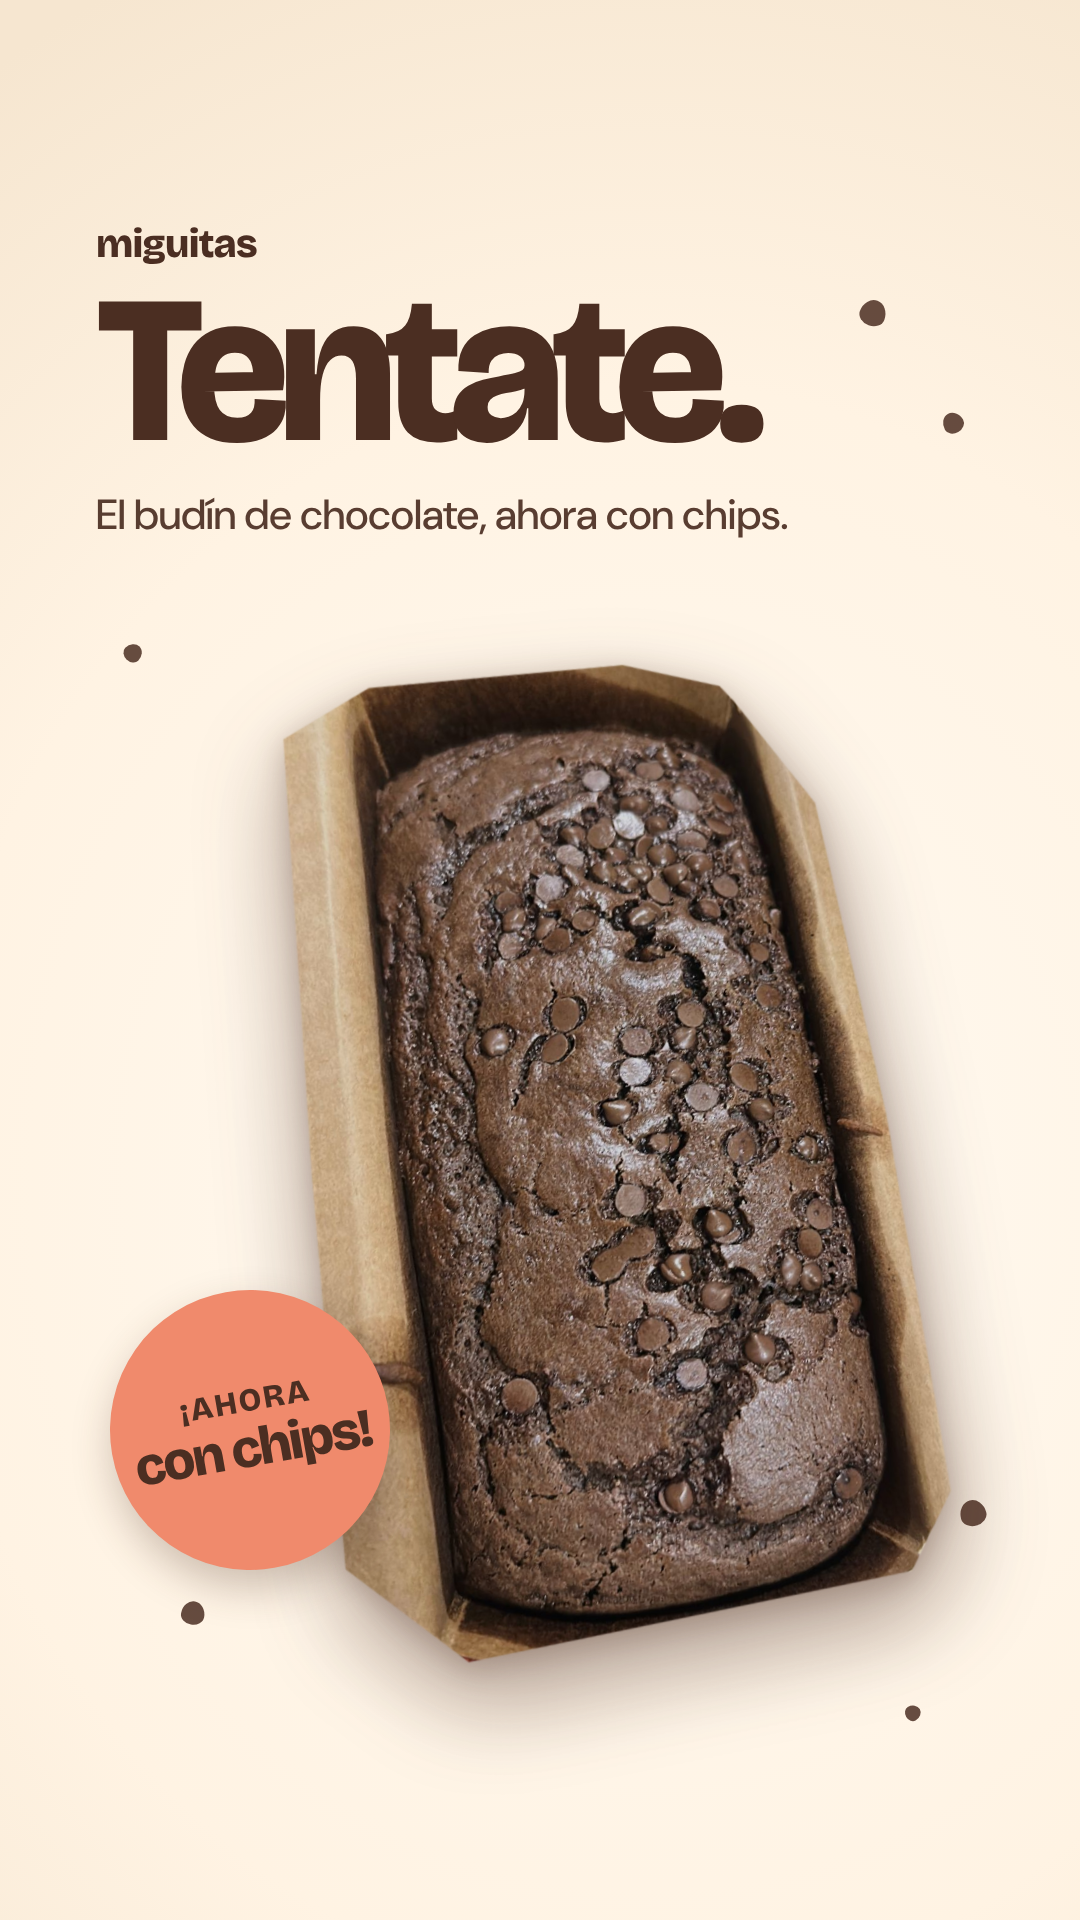
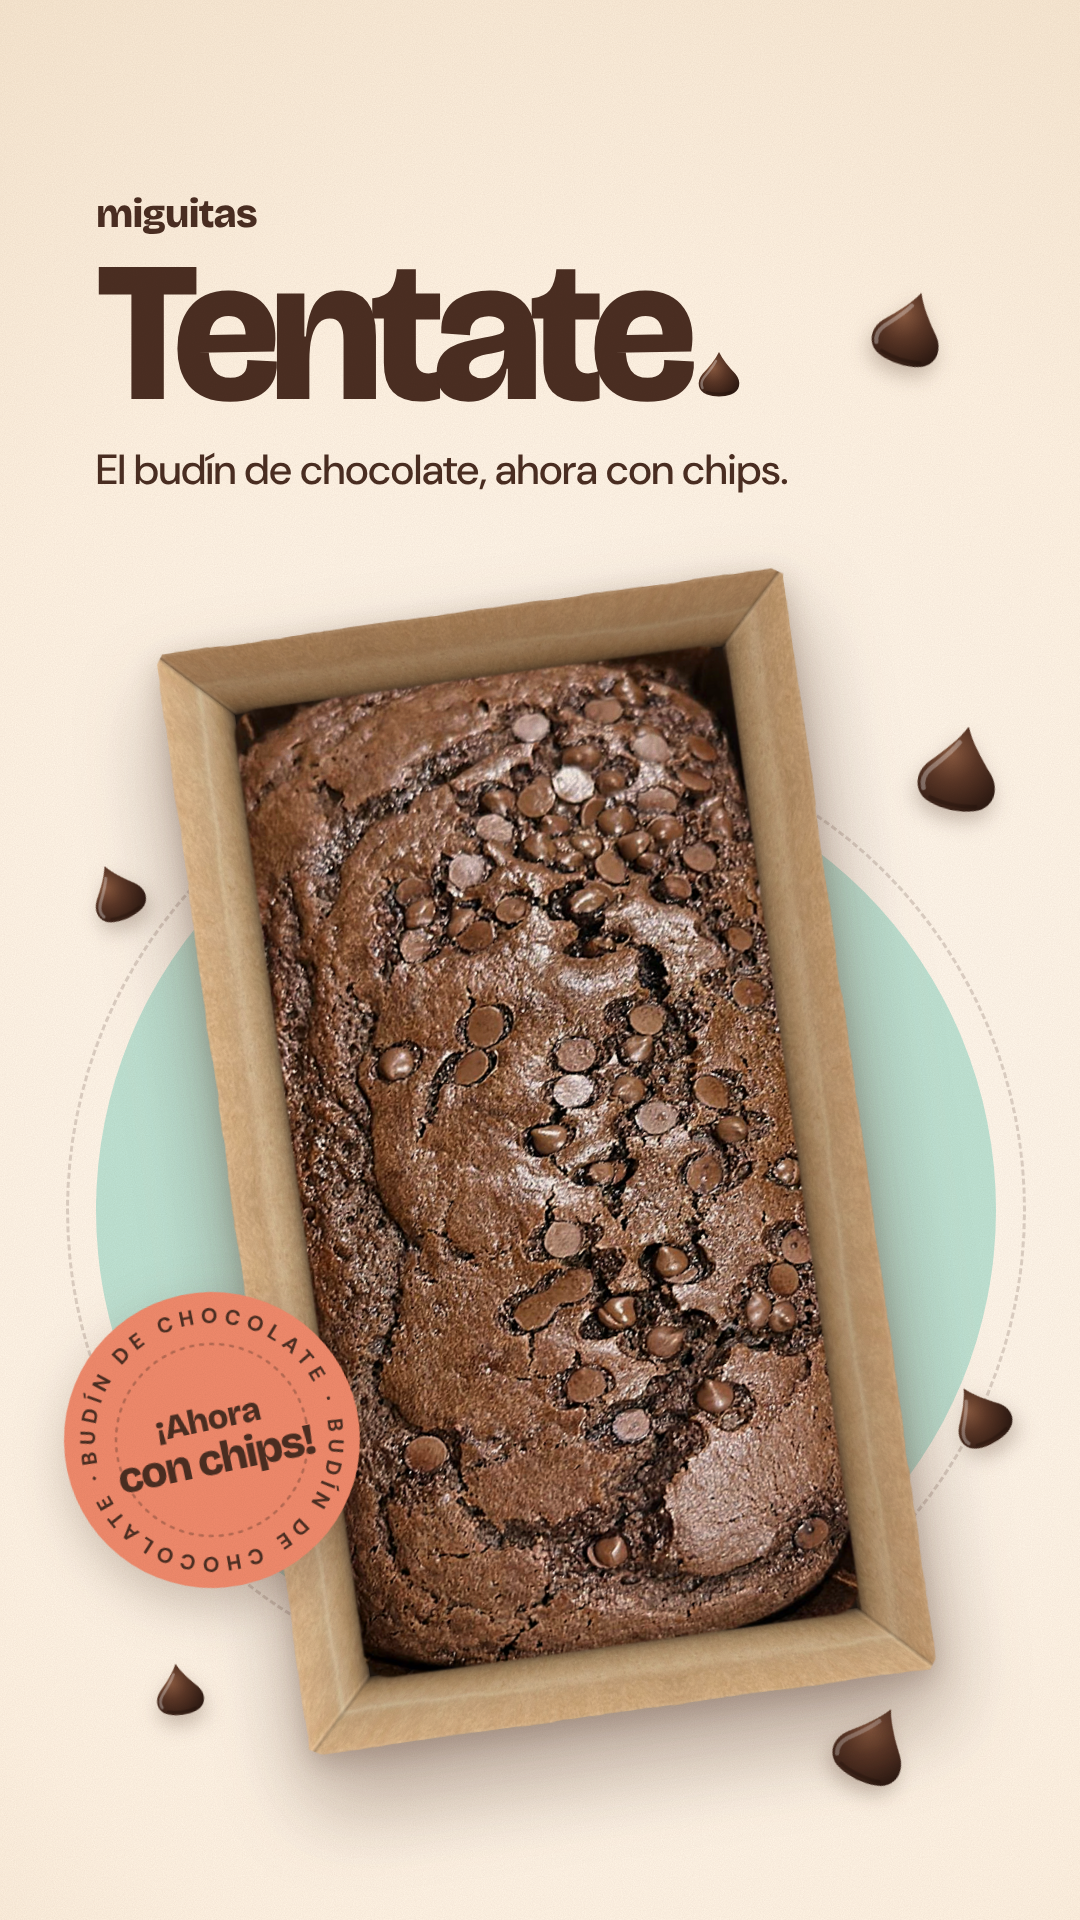
Historia Tentate: molde parejo, budín más grande, disco menta, chips y sello circular
Claude-Session: https://claude.ai/code/session_01AV7UuVhKxUTNvFiCSwisCu

diff --git a/historias/tentate-chocolate.html b/historias/tentate-chocolate.html
@@ -2,37 +2,67 @@
 <html lang="es"><head><meta charset="utf-8">
 <link rel="stylesheet" href="https://fonts.googleapis.com/css2?family=Bricolage+Grotesque:opsz,wght@12..96,700;12..96,800&family=DM+Sans:opsz,wght@9..40,500;9..40,600;9..40,700&display=swap">
 <style>
-:root{--crema:#fff8ee;--cacao:#4b2e22;--coral:#f08a6c;--display:"Bricolage Grotesque","DM Sans",sans-serif;--texto:"DM Sans",sans-serif}
+:root{--crema:#fff8ee;--cacao:#4b2e22;--coral:#f08a6c;--menta:#bfe3d4;--display:"Bricolage Grotesque","DM Sans",sans-serif;--texto:"DM Sans",sans-serif}
 *{margin:0;padding:0;box-sizing:border-box}
 html,body{width:1080px;height:1920px;font-family:var(--texto)}
 .h{position:relative;width:1080px;height:1920px;overflow:hidden;color:var(--cacao);
-  background:radial-gradient(110% 70% at 60% 62%,#fffaf2 0%,#fff3e3 60%,#f6e6d0 100%)}
-.chip{position:absolute;width:26px;height:26px;background:#4b2e22;border-radius:50% 50% 50% 50%/60% 60% 40% 40%;opacity:.85}
-.top{position:absolute;top:220px;left:96px;right:96px}
+  background:radial-gradient(120% 75% at 55% 60%,#fffaf3 0%,#fff3e3 60%,#f5e4cc 100%)}
+.grano{position:absolute;inset:0;opacity:.11;mix-blend-mode:multiply;pointer-events:none}
+.disco{position:absolute;left:96px;top:760px;width:900px;height:900px;border-radius:50%;background:var(--menta)}
+.anillo{position:absolute;left:66px;top:730px;width:960px;height:960px;border-radius:50%;border:3px dashed rgba(75,46,34,.18)}
+.top{position:absolute;top:190px;left:96px;right:96px}
 .marca{font-family:var(--display);font-weight:800;font-size:40px;letter-spacing:-.02em}
-h1{margin-top:14px;font-family:var(--display);font-weight:800;font-size:210px;letter-spacing:-.055em;line-height:.85}
-.card{position:absolute;left:290px;top:640px;width:640px;transform:rotate(-6deg);filter:drop-shadow(0 40px 46px rgba(75,46,34,.38)) drop-shadow(0 8px 14px rgba(75,46,34,.3))}
-.card img{display:block;width:100%}
-.sello{position:absolute;left:110px;top:1290px;transform:rotate(-10deg);width:280px;height:280px;border-radius:50%;
-  background:var(--coral);color:var(--cacao);display:flex;flex-direction:column;align-items:center;justify-content:center;text-align:center;
-  font-family:var(--display);font-weight:800;line-height:.95;box-shadow:0 18px 40px rgba(75,46,34,.28)}
-.sello b{font-size:32px;letter-spacing:.06em;margin-bottom:6px}
-.sello span{font-size:54px;letter-spacing:-.04em}
-.sub{margin-top:26px;font-size:42px;font-weight:500;opacity:.92}
+h1{margin-top:10px;font-family:var(--display);font-weight:800;font-size:200px;letter-spacing:-.055em;line-height:.85;white-space:nowrap}
+h1 svg{display:inline-block;width:.25em;height:.25em;margin-left:.04em;vertical-align:baseline}
+.sub{margin-top:24px;font-size:42px;font-weight:500}
+.budin{position:absolute;left:228px;top:604px;width:636px;transform:rotate(-8deg);
+  filter:drop-shadow(0 46px 44px rgba(75,46,34,.34)) drop-shadow(0 10px 14px rgba(75,46,34,.28))}
+.budin img{display:block;width:100%}
+.chip{position:absolute;filter:drop-shadow(0 10px 10px rgba(75,46,34,.28))}
+.sello{position:absolute;left:62px;top:1290px;width:300px;height:300px;transform:rotate(-12deg);
+  filter:drop-shadow(0 18px 26px rgba(75,46,34,.28))}
 </style></head><body>
+<svg width="0" height="0" style="position:absolute">
+  <defs>
+    <radialGradient id="gc" cx="35%" cy="35%" r="75%">
+      <stop offset="0" stop-color="#8a5a40"/><stop offset=".45" stop-color="#5a3626"/><stop offset="1" stop-color="#2e1a12"/>
+    </radialGradient>
+    <symbol id="chip" viewBox="0 0 100 100">
+      <path d="M50 6C57 21 69 35 83 50c13 15 9 35-9 41-14 5-34 5-48 0C8 85 4 65 17 50 31 35 43 21 50 6Z" fill="url(#gc)"/>
+      <path d="M44 24c-6 12-15 22-24 33-5 7-6 15-3 21" fill="none" stroke="#fff" stroke-opacity=".32" stroke-width="5" stroke-linecap="round"/>
+      <path d="M26 86c14 4 34 4 48 0" fill="none" stroke="#1d0f0a" stroke-opacity=".35" stroke-width="4" stroke-linecap="round"/>
+    </symbol>
+    <filter id="ruido"><feTurbulence type="fractalNoise" baseFrequency=".9" numOctaves="2" stitchTiles="stitch"/><feColorMatrix values="0 0 0 0 .3  0 0 0 0 .2  0 0 0 0 .15  0 0 0 1.2 -.1"/></filter>
+  </defs>
+</svg>
 <div class="h">
-  <i class="chip" style="left:860px;top:300px;transform:rotate(20deg)"></i>
-  <i class="chip" style="left:940px;top:410px;transform:rotate(-30deg) scale(.8)"></i>
-  <i class="chip" style="left:120px;top:640px;transform:rotate(45deg) scale(.7)"></i>
-  <i class="chip" style="left:960px;top:1500px;transform:rotate(-15deg)"></i>
-  <i class="chip" style="left:180px;top:1600px;transform:rotate(10deg) scale(.9)"></i>
-  <i class="chip" style="left:900px;top:1700px;transform:rotate(60deg) scale(.6)"></i>
+  <div class="anillo"></div>
+  <div class="disco"></div>
+
+  <svg class="chip" style="left:868px;top:286px;width:84px;height:84px;transform:rotate(18deg)"><use href="#chip"/></svg>
+  <svg class="chip" style="left:84px;top:860px;width:64px;height:64px;transform:rotate(-24deg)"><use href="#chip"/></svg>
+  <svg class="chip" style="left:912px;top:720px;width:96px;height:96px;transform:rotate(12deg)"><use href="#chip"/></svg>
+  <svg class="chip" style="left:944px;top:1380px;width:70px;height:70px;transform:rotate(-30deg)"><use href="#chip"/></svg>
+  <svg class="chip" style="left:830px;top:1700px;width:88px;height:88px;transform:rotate(26deg)"><use href="#chip"/></svg>
+  <svg class="chip" style="left:150px;top:1660px;width:58px;height:58px;transform:rotate(-8deg)"><use href="#chip"/></svg>
+
   <div class="top">
     <div class="marca">miguitas</div>
-    <h1>Tentate.</h1>
+    <h1>Tentate<svg viewBox="0 0 100 100"><use href="#chip"/></svg></h1>
     <div class="sub">El budín de chocolate, ahora con chips.</div>
   </div>
-  <div class="card"><img src="chocolate-recorte.png" alt=""></div>
-  <div class="sello"><b>¡AHORA</b><span>con chips!</span></div>
-  </div>
+
+  <div class="budin"><img src="chocolate-molde.png" alt=""></div>
+
+  <svg class="sello" viewBox="0 0 300 300">
+    <defs><path id="aro" d="M150 150m-117 0a117 117 0 1 1 234 0a117 117 0 1 1-234 0"/></defs>
+    <circle cx="150" cy="150" r="148" fill="#f08a6c"/>
+    <circle cx="150" cy="150" r="96" fill="none" stroke="#4b2e22" stroke-opacity=".35" stroke-width="2.5" stroke-dasharray="3 7" stroke-linecap="round"/>
+    <text font-family="DM Sans" font-weight="700" font-size="21" fill="#4b2e22" letter-spacing="3"><textPath href="#aro" textLength="728" lengthAdjust="spacing">BUDÍN DE CHOCOLATE · BUDÍN DE CHOCOLATE ·</textPath></text>
+    <text x="150" y="140" text-anchor="middle" font-family="Bricolage Grotesque" font-weight="800" font-size="34" fill="#4b2e22" letter-spacing="-.5">¡Ahora</text>
+    <text x="150" y="184" text-anchor="middle" font-family="Bricolage Grotesque" font-weight="800" font-size="44" fill="#4b2e22" letter-spacing="-1.5">con chips!</text>
+  </svg>
+
+  <svg class="grano" width="1080" height="1920"><rect width="100%" height="100%" filter="url(#ruido)"/></svg>
+</div>
 </body></html>
